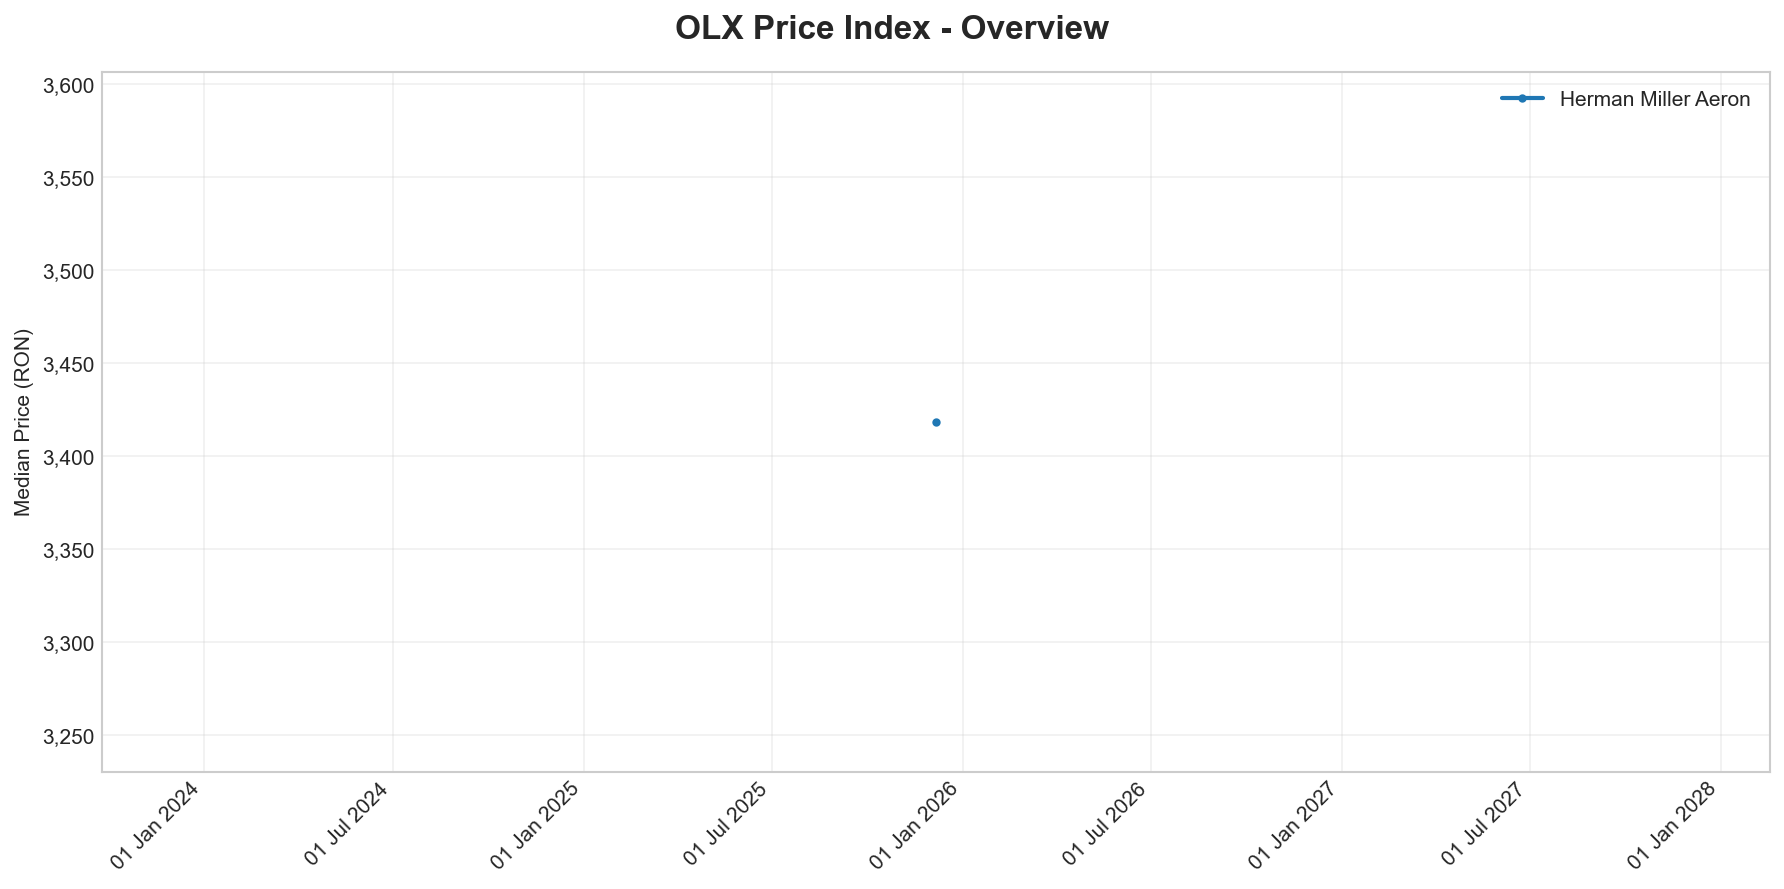
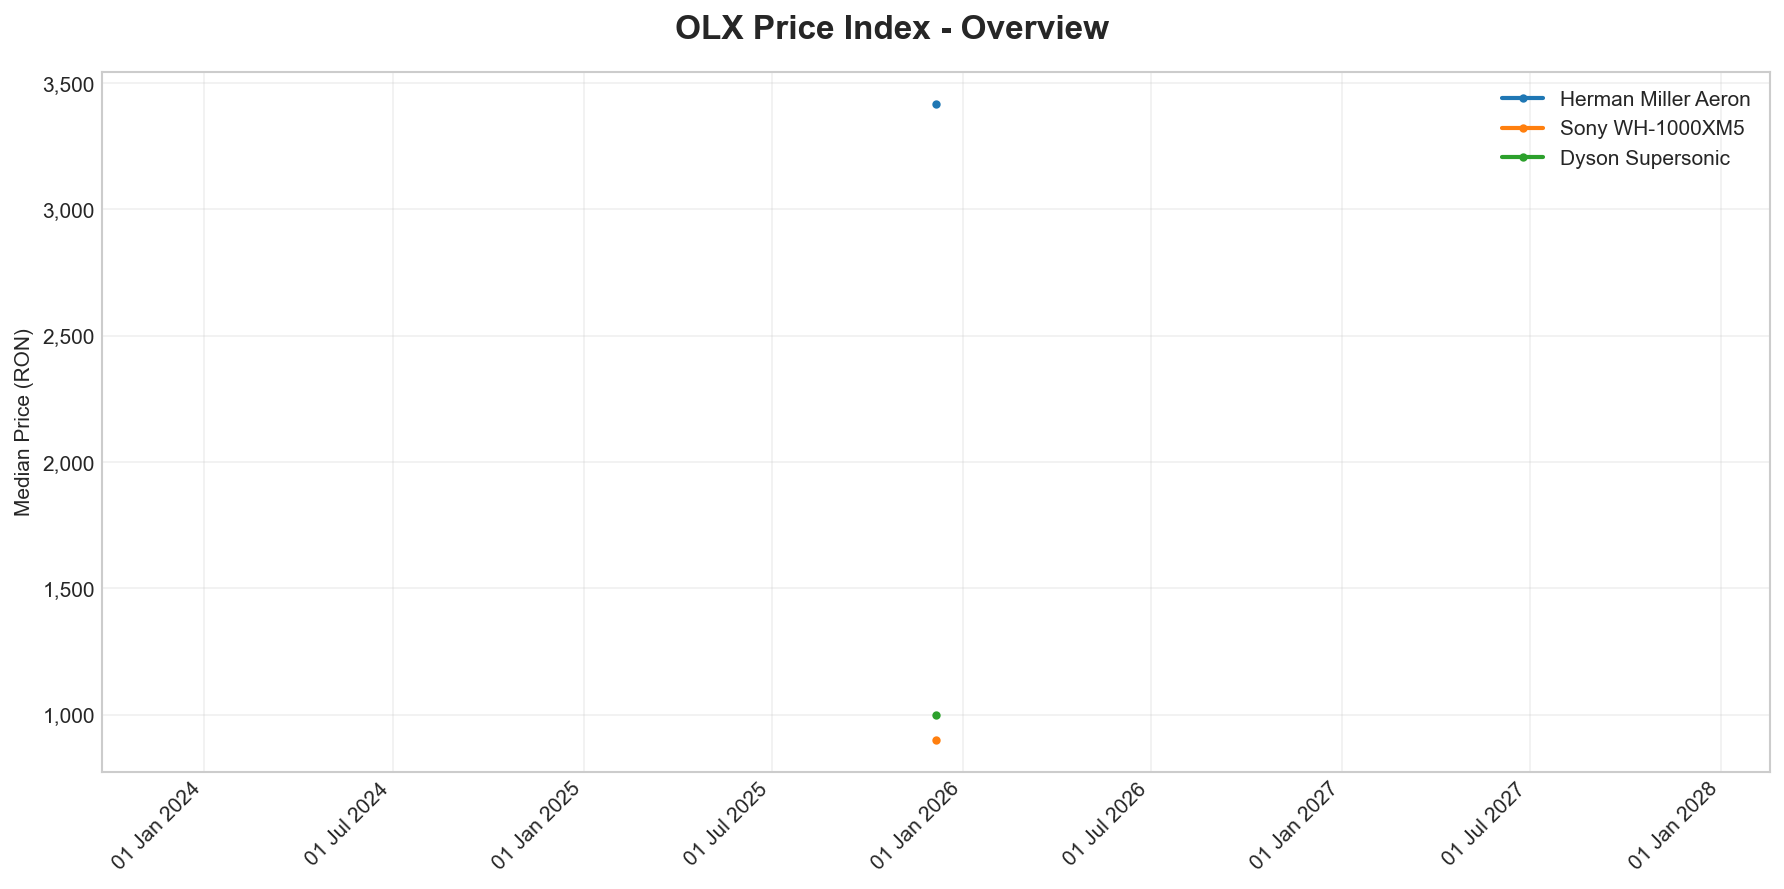
Add Sony WH-1000XM5 and Dyson Supersonic tracking
- Added 2 new products to products.yaml
- Updated README description and repo link
- Collected initial data for new products:
  - Sony WH-1000XM5: 42 listings, median 900 RON
  - Dyson Supersonic: 101 listings, median 1000 RON

🤖 Generated with [Claude Code](https://claude.com/claude-code)

diff --git a/src/main.py b/src/main.py
@@ -81,7 +81,7 @@ def generate_readme(products: list[Product]) -> None:
     lines = [
         "# OLX Price Index",
         "",
-        "Daily price tracking for products on OLX.ro.",
+        "Daily price tracking for products on OLX.ro as a proxy for economic indicators.",
         "",
         "![Overview](images/overview.png)",
         "",
@@ -136,7 +136,7 @@ def generate_readme(products: list[Product]) -> None:
             "",
             "---",
             "",
-            "*Generated automatically by [Aeron Miller Index](https://github.com)*",
+            "*Generated automatically by [Aeron Miller Index](https://github.com/FlorinPopaCodes/aeron-miller-index)*",
         ]
     )
 
@@ -177,7 +177,9 @@ def main() -> None:
             # Calculate stats
             prices = [listing.price for listing in listings]
             stats = DailyStats.from_prices(date.today(), prices)
-            logger.info(f"Stats: count={stats.count}, min={stats.min_price}, max={stats.max_price}, median={stats.median_price}")
+            logger.info(
+                f"Stats: count={stats.count}, min={stats.min_price}, max={stats.max_price}, median={stats.median_price}"
+            )
 
             # Save to CSV
             append_to_csv(csv_path, stats)

diff --git a/README.md b/README.md
@@ -1,6 +1,6 @@
 # OLX Price Index
 
-Daily price tracking for products on OLX.ro.
+Daily price tracking for products on OLX.ro as a proxy for economic indicators.
 
 ![Overview](images/overview.png)
 
@@ -21,6 +21,36 @@ Daily price tracking for products on OLX.ro.
 
 ---
 
+## 🎧 Sony WH-1000XM5
+
+![Sony WH-1000XM5 Dashboard](images/sony-wh1000xm5_dashboard.png)
+
+| Metric | Value |
+|--------|-------|
+| Listings | 42 |
+| Min | 250 RON |
+| Max | 1,400 RON |
+| Median | 900 RON |
+| Average | 852 RON |
+| Last Update | 2025-12-06 |
+
+---
+
+## 🪑 Dyson Supersonic
+
+![Dyson Supersonic Dashboard](images/dyson-supersonic_dashboard.png)
+
+| Metric | Value |
+|--------|-------|
+| Listings | 101 |
+| Min | 50 RON |
+| Max | 2,200 RON |
+| Median | 1,000 RON |
+| Average | 1,010 RON |
+| Last Update | 2025-12-06 |
+
+---
+
 ## About
 
 This index tracks prices of various products on OLX.ro to provide insights into market trends.
@@ -35,4 +65,4 @@ Data is collected daily via GitHub Actions.
 
 ---
 
-*Generated automatically by [Aeron Miller Index](https://github.com)*
+*Generated automatically by [Aeron Miller Index](https://github.com/FlorinPopaCodes/aeron-miller-index)*
